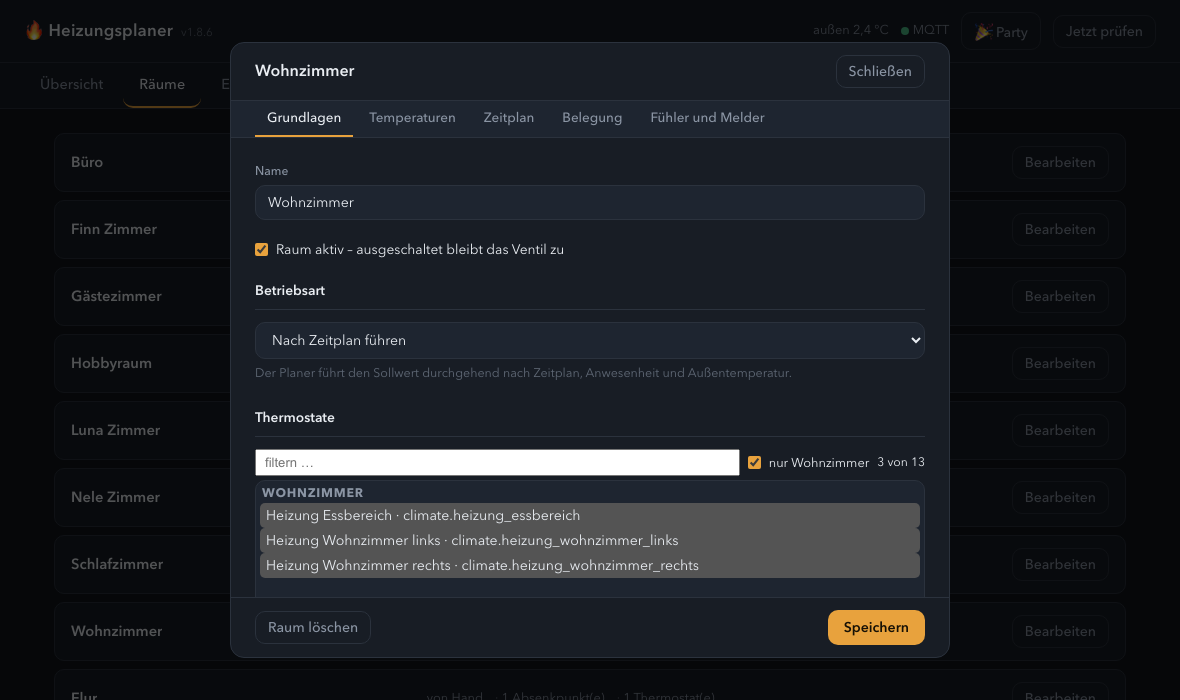
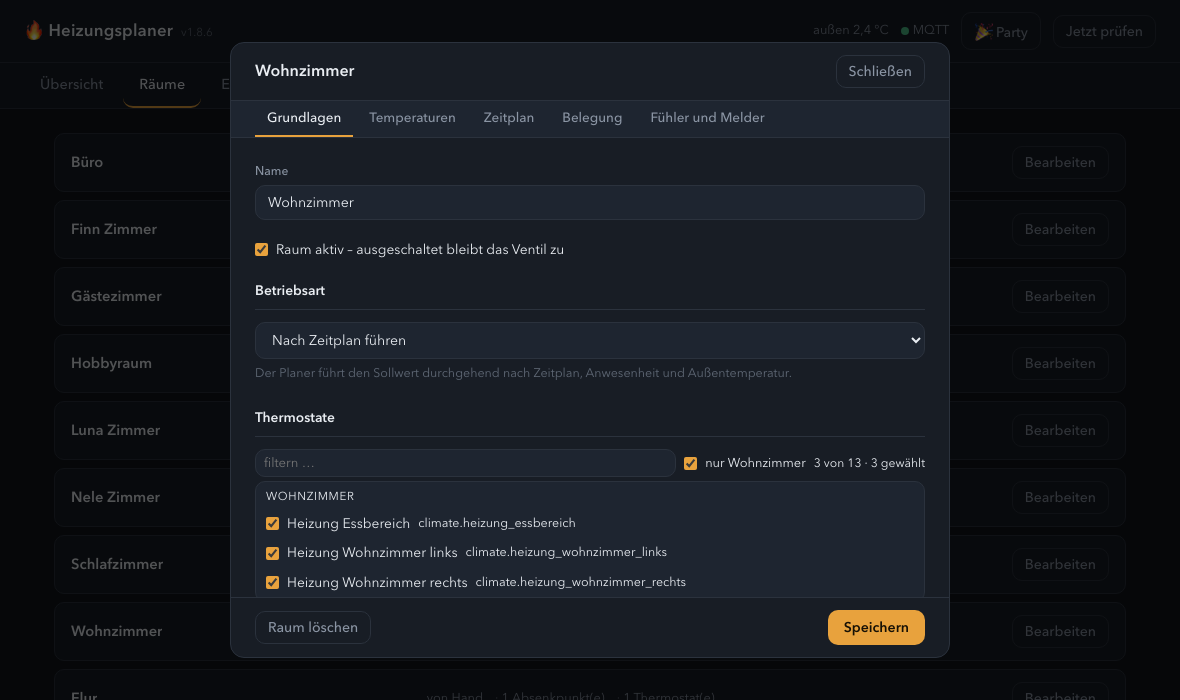
Geräte anhaken statt markieren
In einer Mehrfachauswahl muss man scrollen und eine Markierung deuten, um zu
sehen, was zugeordnet ist – bei zwanzig Meldern im Haus fällt das schwer.
Thermostate, Präsenzmelder, Fensterkontakte, Personen und Meldewege stehen
deshalb jetzt in Häkchenlisten: ein Kästchen je Gerät, angehakte Zeilen
hervorgehoben, die Zahl der gewählten in der Filterzeile.

Eine Zeile je Gerät. Name und Entitäts-ID laufen zusammen und werden am Ende
gekürzt statt umzubrechen; der volle Text steht im Tooltip. Wo die ID dem
Namen entspricht – bei den Meldewegen – entfällt sie, sonst stünde alles
doppelt.

Der Knopf „Zuordnen“ aus dem Hinweisbalken setzt jetzt das Häkchen, statt
eine Option auszuwählen.

Geprüft: Anhaken, Filter umschalten, suchen und wieder zurück – die Zuordnung
überlebt jeden Wechsel, und der gespeicherte Datensatz enthält genau die
angehakten Entitäten.

Changed region(s): [[0.2136, 0.63, 0.7932, 0.84]]

diff --git a/heizungsplaner/frontend/index.html b/heizungsplaner/frontend/index.html
@@ -92,6 +92,27 @@
                            border-color:transparent}
   select[multiple]{min-height:132px; padding:var(--l1)}
   select[multiple] option{padding:3px 6px; border-radius:5px}
+  /* Häkchenliste statt Mehrfachauswahl: Was angehakt ist, sieht man sofort –
+     bei einer Mehrfachauswahl muss man erst scrollen und die Markierung
+     deuten. */
+  .hakenliste{background:var(--flaeche2); border:1px solid var(--linie);
+    border-radius:var(--rund); padding:var(--l1); max-height:190px;
+    overflow-y:auto}
+  .hakenliste.kurz{max-height:150px}
+  .hakenliste label{display:flex; align-items:baseline; gap:var(--l2);
+    padding:4px 6px; border-radius:5px; font-size:.86rem; cursor:pointer}
+  /* Eine Zeile je Gerät: Name und ID laufen zusammen und werden am Ende
+     gekürzt. Umbrechende Namen machten die Liste unruhig. */
+  .hakenliste .h-text{flex:1 1 auto; min-width:0; white-space:nowrap;
+    overflow:hidden; text-overflow:ellipsis}
+  .hakenliste label:hover{background:var(--flaeche3)}
+  .hakenliste label.an{background:var(--flaeche3)}
+  .hakenliste input{width:auto; flex:none; accent-color:var(--warm); margin:0}
+  .hakenliste .h-eid{color:var(--grau); font-size:.78rem}
+  .hakenliste .h-gruppe{font-size:.72rem; letter-spacing:.06em;
+    text-transform:uppercase; color:var(--grau); padding:8px 6px 3px}
+  .hakenliste .h-gruppe:first-child{padding-top:2px}
+  .hakenliste .h-leer{padding:10px 6px; color:var(--grau); font-size:.82rem}
   optgroup{color:var(--leise); font-style:normal; font-size:.78rem;
            text-transform:uppercase; letter-spacing:.06em}
   optgroup option{color:var(--text); text-transform:none; letter-spacing:0;
@@ -529,7 +550,7 @@
     </div>
     <div class="feld" style="margin-top:var(--l3)">
       <label>Meldewege</label>
-      <select id="e-wh-melden" multiple size="6"></select>
+      <div id="e-wh-melden" class="hakenliste"></div>
       <div class="notiz">Mehrfachauswahl mit ⌘ bzw. Strg. Gemeldet wird einmal beim
         Ausfall und einmal bei der Behebung – eine Warnung, die stündlich erneut
         kommt, wird bald weggewischt.</div>
@@ -617,7 +638,7 @@
 
       <div class="abschnitt">
         <h3>Thermostate</h3>
-        <select id="r-thermostate" multiple></select>
+        <div id="r-thermostate" class="hakenliste"></div>
         <div class="notiz" style="margin-top:var(--l2)">Mehrfachauswahl mit ⌘ bzw.
           Strg. Gruppen-Helfer gehören nicht hierher – der Planer stellt jeden
           Heizkörper einzeln.</div>
@@ -694,7 +715,7 @@
             Betracht</span></label>
         <div class="raster-felder" style="margin-top:var(--l3)">
           <div class="feld"><label>Zuständige Personen</label>
-            <select id="r-personen" multiple size="5"></select>
+            <div id="r-personen" class="hakenliste kurz"></div>
             <div class="notiz">Nichts ausgewählt = die ganze Familie zählt.</div></div>
           <div class="feld"><label>Eigene Karenzzeit (Minuten)</label>
             <input type="number" id="r-karenz" min="0" max="480" step="5"
@@ -716,11 +737,11 @@
       </div>
       <div class="abschnitt">
         <h3>Präsenz- und Bewegungsmelder</h3>
-        <select id="r-praesenz" multiple size="5"></select>
+        <div id="r-praesenz" class="hakenliste kurz"></div>
       </div>
       <div class="abschnitt">
         <h3>Fensterkontakte</h3>
-        <select id="r-fenster" multiple size="6"></select>
+        <div id="r-fenster" class="hakenliste"></div>
         <div class="notiz" style="margin-top:var(--l2)">Sobald hier ein Kontakt steht,
           entscheidet er allein – die Temperatursturz-Erkennung tritt zurück. Meldet
           ein Kontakt nichts, springt sie wieder ein.</div>
@@ -871,24 +892,29 @@ function filterZeileBauen(select) {
   return select._filterzeile;
 }
 
-function auswahlFuellen(select, quelle, wert, opt) {
+// Füllt eine Auswahl – entweder ein <select> (Einzelauswahl) oder eine
+// Häkchenliste (Mehrfachauswahl). Bei der Häkchenliste sieht man auf einen
+// Blick, was zugeordnet ist; eine Mehrfachauswahl verlangt dafür Scrollen und
+// das Deuten einer Markierung.
+function auswahlFuellen(ziel, quelle, wert, opt) {
   opt = opt || {};
-  const stand = filterStand[select.id] || (filterStand[select.id] = {such:'', nurRaum:false});
+  const stand = filterStand[ziel.id] || (filterStand[ziel.id] = {such:'', nurRaum:false});
   const werte = Array.isArray(wert) ? wert.filter(Boolean)
                                     : (wert ? [wert] : []);
-  const istMehrfach = select.multiple;
+  const haken = ziel.tagName !== 'SELECT';
+  const istMehrfach = haken || ziel.multiple;
 
   // Beim Neuaufbau nach einer Filteränderung zählt, was gerade angehakt ist –
   // nicht der Stand beim Öffnen des Dialogs.
-  const gewaehltJetzt = new Set(select._gefuellt
-    ? (istMehrfach ? gewaehlt(select) : [select.value].filter(Boolean))
+  const gewaehltJetzt = new Set(ziel._gefuellt
+    ? (istMehrfach ? gewaehlt(ziel) : [ziel.value].filter(Boolean))
     : werte);
 
   const alle = [...(quelle || []),
                 ...((opt.anhang && opt.anhang.liste) || [])];
   const raum = opt.raum;
-  // Das Häkchen erscheint nur, wenn es überhaupt etwas zu filtern gibt –
-  // sonst stünde dort ein Schalter, der die Liste leer macht.
+  // Das Häkchen „nur dieser Raum“ erscheint nur, wenn es überhaupt etwas zu
+  // filtern gibt – sonst stünde dort ein Schalter, der die Liste leer macht.
   const mitRaum = !!raum && !raum.leer && alle.some(e => gehoertZumRaum(e, raum));
   const such = stand.such.trim().toLowerCase();
 
@@ -899,36 +925,75 @@ function auswahlFuellen(select, quelle, wert, opt) {
     return (eintrag.name + ' ' + eintrag.entity_id).toLowerCase().includes(such);
   };
 
-  select.innerHTML = '';
-  if (opt.leerText !== undefined) {
+  ziel.innerHTML = '';
+  if (!haken && opt.leerText !== undefined) {
     const leer = document.createElement('option');
     leer.value = ''; leer.textContent = opt.leerText;
-    select.appendChild(leer);
+    ziel.appendChild(leer);
   }
 
   const vorhanden = new Set();
   let gezeigt = 0;
-  const anhaengen = (ziel, eintrag) => {
-    const option = document.createElement('option');
-    option.value = eintrag.entity_id;
+
+  const zeile = (eintrag, angehakt) => {
     const stumm = eintrag.zustand && !['on','off'].includes(eintrag.zustand)
       ? '  ⚠ meldet nichts' : '';
-    option.textContent = eintrag.name + '  ·  ' + eintrag.entity_id + stumm;
-    ziel.appendChild(option);
+    if (!haken) {
+      const option = document.createElement('option');
+      option.value = eintrag.entity_id;
+      option.textContent = eintrag.name + '  ·  ' + eintrag.entity_id + stumm;
+      return option;
+    }
+    const label = document.createElement('label');
+    const kasten = document.createElement('input');
+    kasten.type = 'checkbox';
+    kasten.value = eintrag.entity_id;
+    kasten.checked = angehakt;
+    const text = document.createElement('span');
+    text.className = 'h-text';
+    text.textContent = eintrag.name + stumm;
+    // Die Entitäts-ID nur, wo sie etwas hinzufügt: Die Meldewege heißen wie
+    // ihre ID, dort stünde sonst alles doppelt.
+    if (eintrag.entity_id && eintrag.entity_id !== eintrag.name) {
+      const eid = document.createElement('span');
+      eid.className = 'h-eid';
+      eid.textContent = '  ·  ' + eintrag.entity_id;
+      text.append(eid);
+    }
+    label.title = text.textContent;
+    label.append(kasten, text);
+    label.classList.toggle('an', angehakt);
+    // Der Filter baut die Liste neu auf und liest dabei den aktuellen Stand –
+    // deshalb muss das Häkchen sofort im Element vermerkt sein.
+    kasten.onchange = () => label.classList.toggle('an', kasten.checked);
+    return label;
+  };
+
+  const anhaengen = (behaelter, eintrag) => {
+    behaelter.appendChild(zeile(eintrag, gewaehltJetzt.has(eintrag.entity_id)));
     vorhanden.add(eintrag.entity_id);
     gezeigt++;
   };
+
   const gruppeAnhaengen = (titel, eintraege) => {
     const treffer = eintraege.filter(sichtbar);
     if (!treffer.length) return;
     if (!opt.gruppiert) {
-      for (const eintrag of treffer) anhaengen(select, eintrag);
+      for (const eintrag of treffer) anhaengen(ziel, eintrag);
+      return;
+    }
+    if (haken) {
+      const kopf = document.createElement('div');
+      kopf.className = 'h-gruppe';
+      kopf.textContent = titel;
+      ziel.appendChild(kopf);
+      for (const eintrag of treffer) anhaengen(ziel, eintrag);
       return;
     }
     const gruppe = document.createElement('optgroup');
     gruppe.label = titel;
     for (const eintrag of treffer) anhaengen(gruppe, eintrag);
-    select.appendChild(gruppe);
+    ziel.appendChild(gruppe);
   };
 
   if (opt.gruppiert) {
@@ -949,6 +1014,7 @@ function auswahlFuellen(select, quelle, wert, opt) {
   } else {
     gruppeAnhaengen('', quelle || []);
   }
+
   // Die Anhang-Gruppe – alles Binäre, das kein Kontakt ist – umfasst in
   // diesem Haus über 200 Einträge. Sie ungefragt unter die fünf echten
   // Fensterkontakte zu hängen macht die Auswahl unbrauchbar. Sie erscheint
@@ -975,21 +1041,34 @@ function auswahlFuellen(select, quelle, wert, opt) {
   // „zurzeit nicht in Home Assistant“ vorgesetzt, obwohl er nur weggefiltert
   // ist.
   for (const fehlend of [...gewaehltJetzt].filter(w => w && !vorhanden.has(w))) {
-    const option = document.createElement('option');
-    option.value = fehlend;
-    option.textContent = fehlend + '  (zurzeit nicht in Home Assistant)';
-    select.appendChild(option);
+    const eintrag = {entity_id: fehlend,
+                     name: fehlend + '  (zurzeit nicht in Home Assistant)'};
+    if (haken) {
+      ziel.appendChild(zeile(eintrag, true));
+    } else {
+      const option = document.createElement('option');
+      option.value = fehlend;
+      option.textContent = eintrag.name;
+      ziel.appendChild(option);
+    }
   }
 
-  if (istMehrfach) {
-    const auswahl = select._gefuellt ? gewaehltJetzt : new Set(werte);
-    for (const option of select.options) option.selected = auswahl.has(option.value);
+  if (haken) {
+    if (!ziel.children.length) {
+      const leer = document.createElement('div');
+      leer.className = 'h-leer';
+      leer.textContent = such ? 'Nichts gefunden.' : 'Nichts zur Auswahl.';
+      ziel.appendChild(leer);
+    }
+  } else if (istMehrfach) {
+    const auswahl = ziel._gefuellt ? gewaehltJetzt : new Set(werte);
+    for (const option of ziel.options) option.selected = auswahl.has(option.value);
   } else {
-    select.value = (select._gefuellt ? [...gewaehltJetzt][0] : werte[0]) || '';
+    ziel.value = (ziel._gefuellt ? [...gewaehltJetzt][0] : werte[0]) || '';
   }
 
   if (opt.filter !== false) {
-    const teile = select._filterzeile || filterZeileBauen(select);
+    const teile = ziel._filterzeile || filterZeileBauen(ziel);
     teile.suche.value = stand.such;
     teile.kasten.checked = stand.nurRaum && mitRaum;
     teile.beschriftung.textContent = 'nur ' + (opt.raumName || 'dieser Raum');
@@ -997,13 +1076,15 @@ function auswahlFuellen(select, quelle, wert, opt) {
     // Solange der Anhang zurückgehalten wird, zählt nur die eigentliche
     // Liste – „1 von 227“ wäre irreführend, gemeint ist einer von fünf.
     const grundmenge = versteckt ? (quelle || []).length : alle.length;
+    const angehakt = gewaehltJetzt.size;
     teile.zahl.textContent =
       (gezeigt >= grundmenge ? grundmenge + ' zur Auswahl'
                              : gezeigt + ' von ' + grundmenge)
-      + (versteckt ? ' · ' + versteckt + ' weitere Melder – zum Suchen tippen' : '');
+      + (istMehrfach && angehakt ? ' · ' + angehakt + ' gewählt' : '')
+      + (versteckt ? ' · ' + versteckt + ' weitere – zum Suchen tippen' : '');
   }
-  select._neuFuellen = () => auswahlFuellen(select, quelle, wert, opt);
-  select._gefuellt = true;
+  ziel._neuFuellen = () => auswahlFuellen(ziel, quelle, wert, opt);
+  ziel._gefuellt = true;
 }
 
 // Woran ein Gerät als „gehört zu diesem Raum“ erkannt wird.
@@ -1063,8 +1144,11 @@ function filterZuruecksetzen(ids, an) {
   }
 }
 
-const gewaehlt = (select) =>
-  Array.from(select.selectedOptions).map(o => o.value).filter(Boolean);
+// Die Auswahl eines Feldes – gleich ob Mehrfachauswahl oder Häkchenliste.
+const gewaehlt = (feld) => feld.tagName === 'SELECT'
+  ? Array.from(feld.selectedOptions).map(o => o.value).filter(Boolean)
+  : Array.from(feld.querySelectorAll('input[type=checkbox]:checked'))
+         .map(k => k.value).filter(Boolean);
 
 // ────────────────────────────────────────────────── Reiter ──
 function reiterSetzen(leiste, blattRaum) {
@@ -1283,8 +1367,12 @@ async function gesundheitLaden() {
         const entity = knopf.dataset.entity;
         const ziel = knopf.dataset.feld === 'praesenz' ? 'r-praesenz' : 'r-fenster';
         if (entity) {
-          for (const option of $(ziel).options) {
-            if (option.value === entity) { option.selected = true; option.scrollIntoView(); }
+          const kasten = $(ziel).querySelector(
+            `input[type=checkbox][value="${entity}"]`);
+          if (kasten) {
+            kasten.checked = true;
+            kasten.dispatchEvent(new Event('change'));
+            kasten.closest('label').scrollIntoView({block:'center'});
           }
         }
       };
@@ -1620,7 +1708,7 @@ function raumOeffnen(raum, startblatt) {
 
   auswahlFuellen($('r-thermostate'), einzeln, d.thermostate,
                  {gruppiert:true, raum: raumbezug, raumName});
-  fuelleAuswahl($('r-personen'), entitaeten.personen, d.personen);
+  auswahlFuellen($('r-personen'), entitaeten.personen, d.personen, {filter:false});
   auswahlFuellen($('r-raumtemp'), entitaeten.raumtemp, d.raumtemp,
                  {leerText:'Mittelwert der Thermostate'});
   fuelleAuswahl($('r-freigabe'), entitaeten.schalter || [], d.freigabe_entity,
@@ -1754,7 +1842,8 @@ function einstellungenZeichnen() {
   $('e-wh-aktiv').checked = wacht.aktiv;
   $('e-wh-stumm').value = wacht.stumm_stunden;
   $('e-wh-batterie').value = wacht.batterie_prozent;
-  fuelleAuswahl($('e-wh-melden'), entitaeten.meldewege || [], wacht.melden_an || []);
+  auswahlFuellen($('e-wh-melden'), entitaeten.meldewege || [],
+                 wacht.melden_an || [], {filter:false});
 
   $('e-fe-aktiv').checked = e.fenster.aktiv;
   $('e-fe-sturz').value = e.fenster.sturz_k;

diff --git a/heizungsplaner/backend/version.py b/heizungsplaner/backend/version.py
@@ -1,1 +1,1 @@
-VERSION = "1.8.8"
+VERSION = "1.8.9"

diff --git a/heizungsplaner/DOCS.md b/heizungsplaner/DOCS.md
@@ -55,9 +55,10 @@ Fensterkontakte:
 
 ![Fühler und Melder mit Filterzeile über jeder Auswahlliste](https://raw.githubusercontent.com/Melle79/HA-heizungsplaner/main/heizungsplaner/doku/bilder/raum-melder.png)
 
-Über jeder Auswahlliste sitzt eine Filterzeile. Sie ist nötig, weil ein
-Haushalt schnell mehrere hundert binäre Melder hat – ohne sie stünde im
-Wohnzimmer auch der Briefkastenkontakt zur Auswahl:
+Geräte werden **angehakt**; was zugeordnet ist, sieht man auf einen Blick.
+Über jeder Liste sitzt eine Filterzeile – nötig, weil ein Haushalt schnell
+mehrere hundert binäre Melder hat. Ohne sie stünde im Wohnzimmer auch der
+Briefkastenkontakt zur Auswahl:
 
 * **Häkchen „nur <Raum>“** – zeigt nur, was zu diesem Raum gehört. Das ist
   der Bereich in Home Assistant, aber auch der Name: In dieser Installation
@@ -66,8 +67,10 @@ Wohnzimmer auch der Briefkastenkontakt zur Auswahl:
   es für den Raum überhaupt etwas zu finden gibt.
 * **Suchfeld** – durchsucht Namen und Entitäts-ID. Sobald etwas darin steht,
   werden auch die *sonstigen Melder* durchsucht.
-* Was **zugeordnet ist, bleibt immer sichtbar**, gleich wie gefiltert wird.
+* Was **angehakt ist, bleibt immer sichtbar**, gleich wie gefiltert wird.
   Eine ausgeblendete Zuordnung würde beim Speichern verlorengehen.
+* Rechts steht, wie viele Geräte die Liste gerade zeigt und wie viele davon
+  angehakt sind.
 
 Die Gruppe **Sonstige Melder** – alles Binäre, das kein Kontakt ist – bleibt
 zunächst zugeklappt und erscheint erst beim Suchen. Die Zeile rechts sagt,

diff --git a/heizungsplaner/CHANGELOG.md b/heizungsplaner/CHANGELOG.md
@@ -1,5 +1,17 @@
 # Änderungen
 
+## 1.8.9
+
+- **Geräte werden angehakt statt markiert.** Thermostate, Präsenzmelder,
+  Fensterkontakte, Personen und Meldewege stehen jetzt in Häkchenlisten. In
+  einer Mehrfachauswahl musste man scrollen und eine Markierung deuten, um zu
+  sehen, was zugeordnet ist.
+- Eine Zeile je Gerät: Name und Entitäts-ID laufen zusammen und werden am Ende
+  gekürzt, der volle Text steht im Tooltip. Die ID entfällt, wo sie dem Namen
+  entspricht – bei den Meldewegen stand sonst alles doppelt.
+- Der Knopf *Zuordnen* aus dem Hinweisbalken setzt das Häkchen und scrollt die
+  Zeile in die Mitte.
+
 ## 1.8.8
 
 - **Die Auswahllisten im Raum lassen sich filtern.** Über jeder Liste steht

diff --git a/README.md b/README.md
@@ -72,9 +72,9 @@ mitmacht:
 ![Belegung: Freigabeschalter, zuständige Personen, Karenzzeit](heizungsplaner/doku/bilder/raum-belegung.png)
 
 Unter **Fühler und Melder** hängen Temperaturfühler, Präsenzmelder und
-Fensterkontakte am Raum. Eine Filterzeile über jeder Liste zeigt auf Wunsch
-nur, was zu diesem Raum gehört – sonst stünde im Wohnzimmer auch der
-Briefkastenkontakt zur Auswahl:
+Fensterkontakte am Raum. Geräte werden angehakt, und eine Filterzeile über
+jeder Liste zeigt auf Wunsch nur, was zu diesem Raum gehört – sonst stünde im
+Wohnzimmer auch der Briefkastenkontakt zur Auswahl:
 
 ![Fühler und Melder mit Filterzeile über jeder Auswahlliste](heizungsplaner/doku/bilder/raum-melder.png)
 
